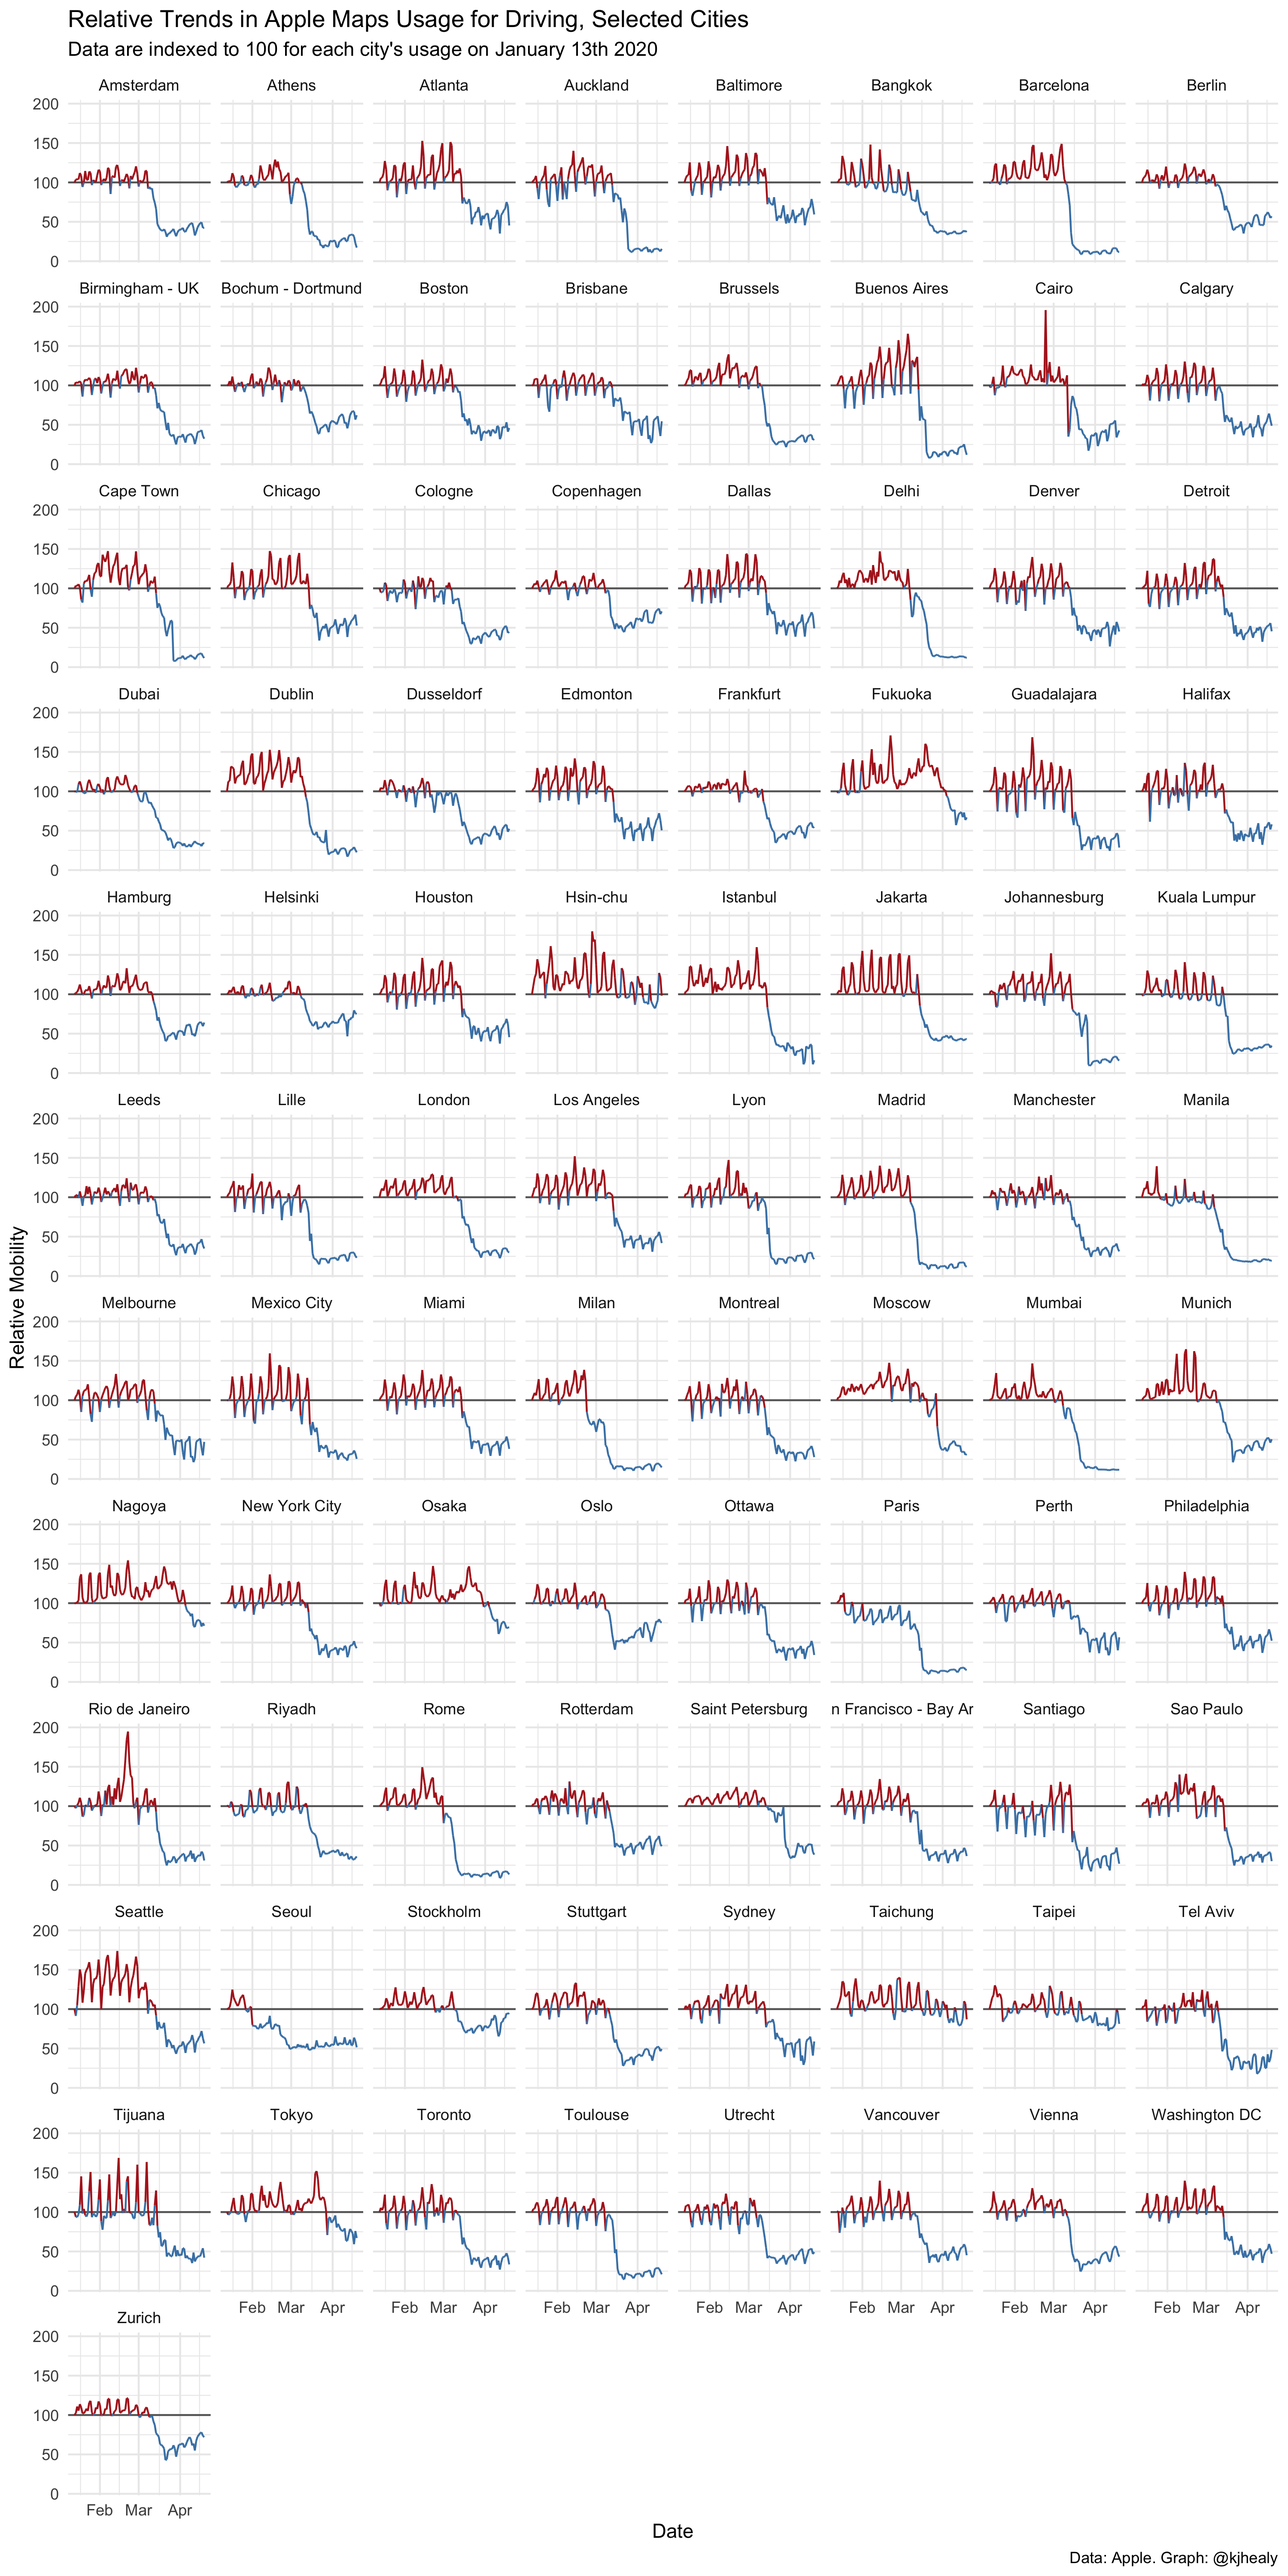
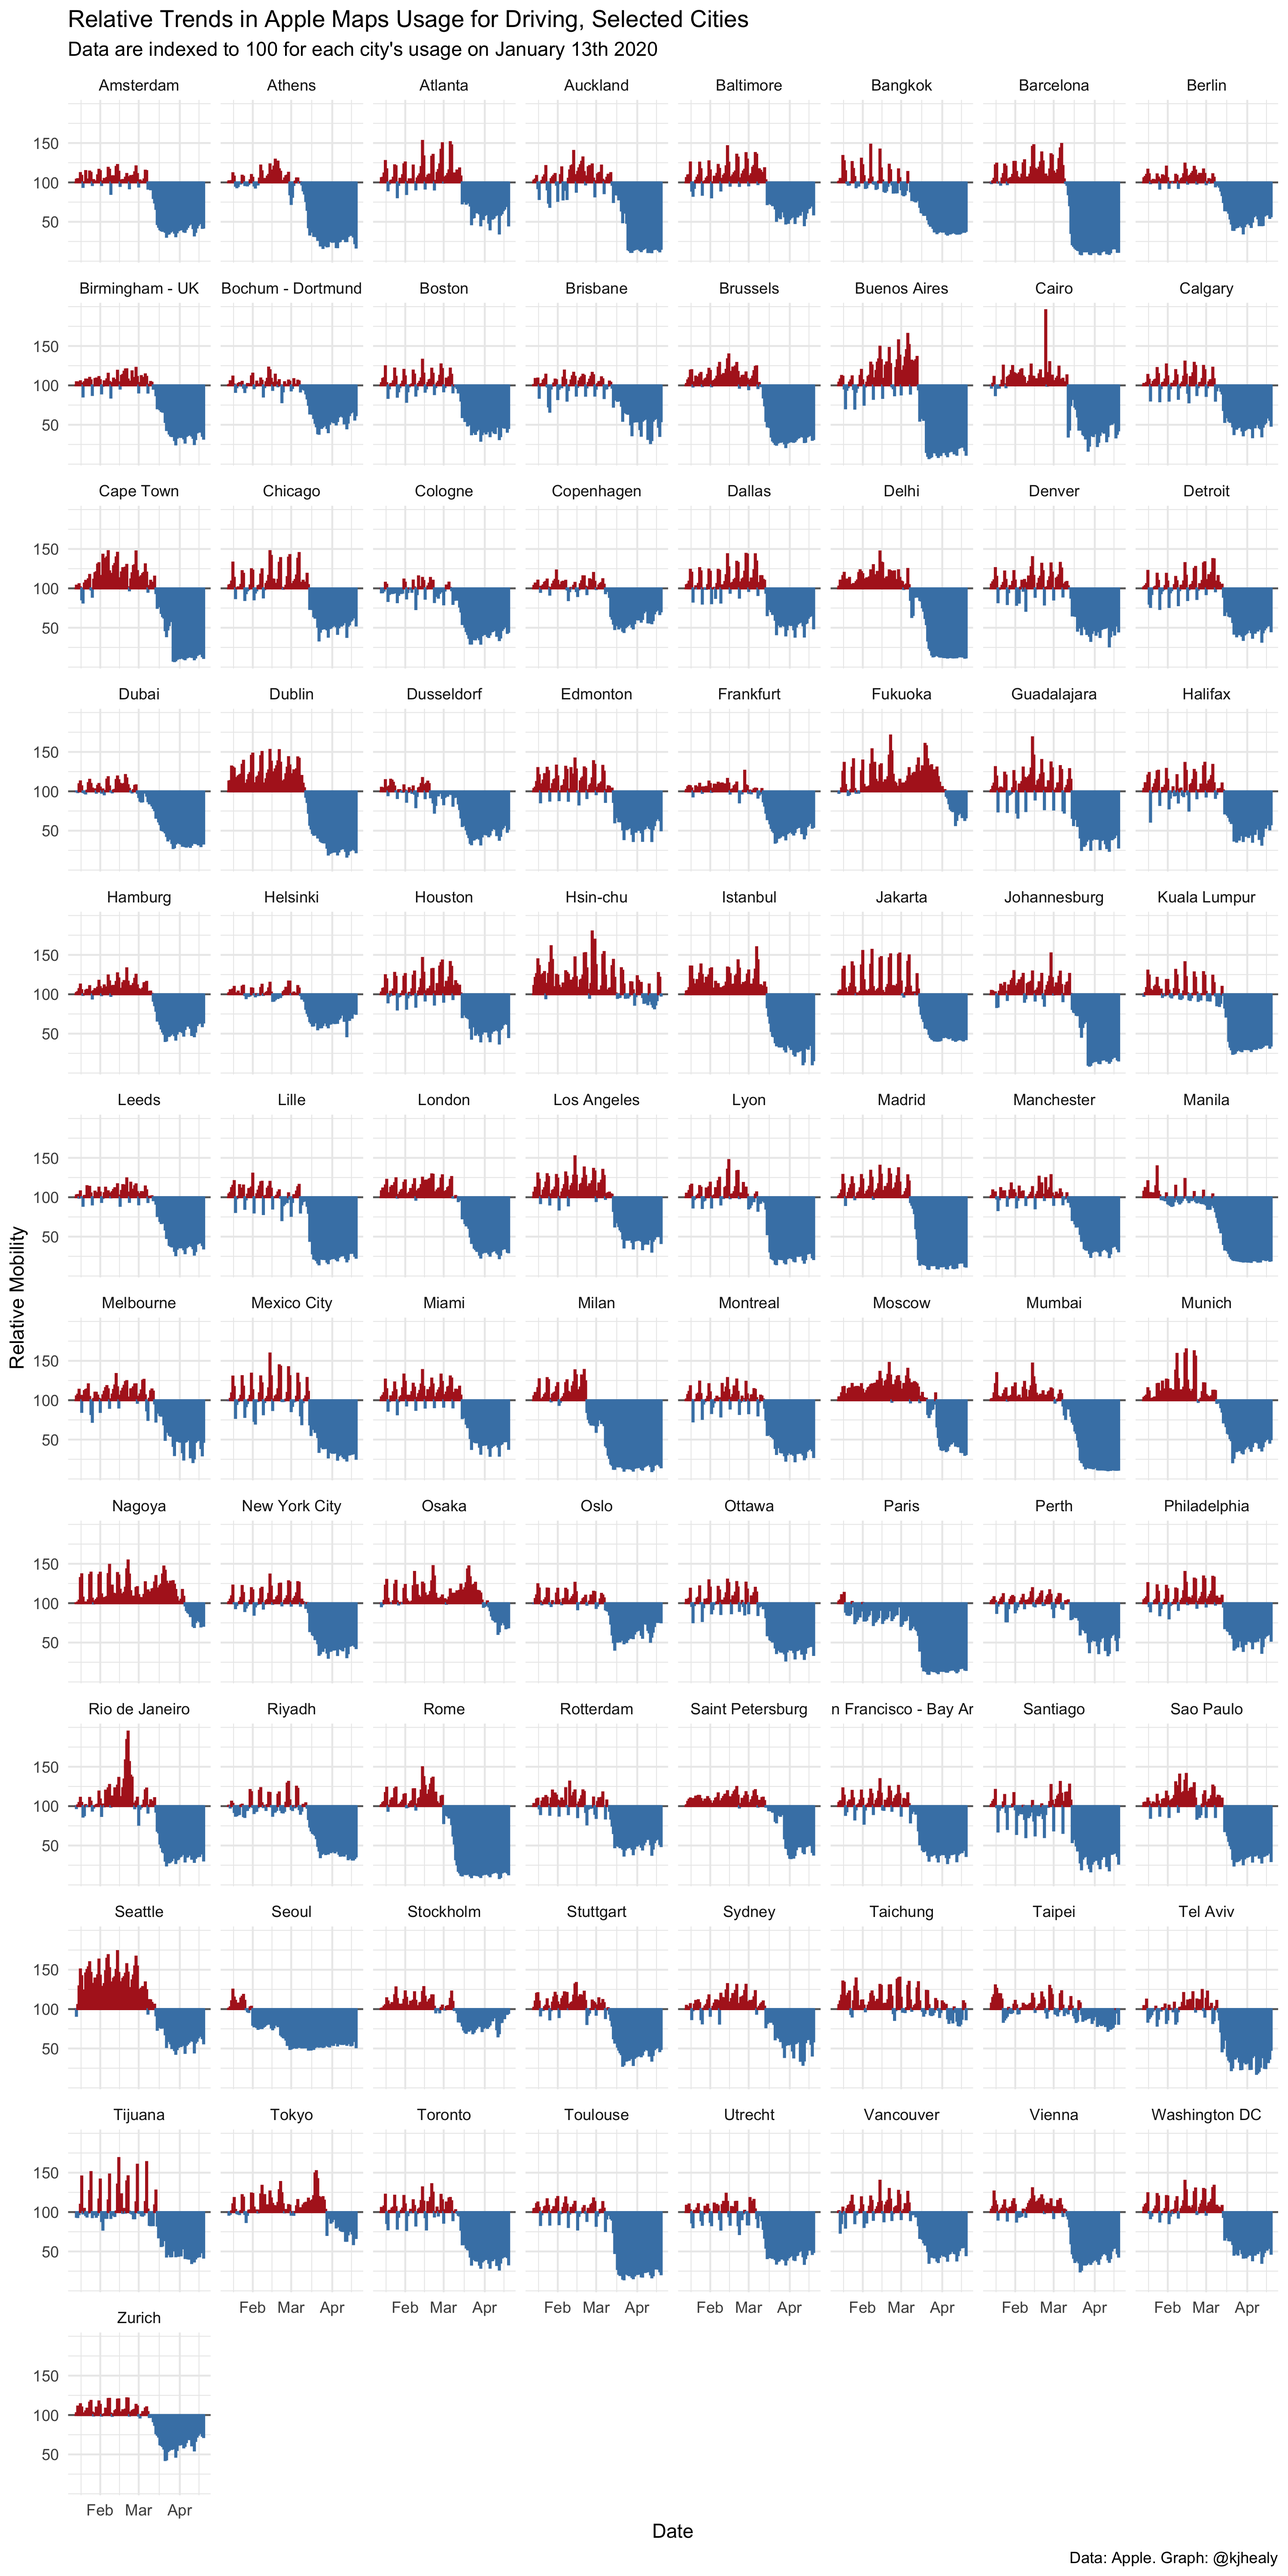
Docs error; change Apple plot

diff --git a/README.md b/README.md
@@ -1,3 +1,7 @@
+---
+output: github_document
+---
+
 <!-- README.md is generated from README.Rmd. Please edit that file -->
 
 
@@ -420,14 +424,19 @@ Apple has made aggregated data available on relative trends in use of its Maps d
 
 
 ```r
+vec_brks <- c(-50, 0, 50)
+vec_labs <- vec_brks + 100
+
 apple_mobility %>% 
   filter(geo_type == "city", transportation_type == "driving") %>%
-  mutate(over_under = index < 100) %>%
+  mutate(over_under = index < 100, 
+         index = index - 100) %>%
   ggplot(mapping = aes(x = date, y = index, 
                        group = region, color = over_under)) + 
-  geom_hline(yintercept = 100, color = "gray40") + 
-  geom_line(size = 0.5) + 
-  scale_color_manual(values = c("firebrick", "steelblue")) + 
+  geom_hline(yintercept = 0, color = "gray40") + 
+  geom_col() + 
+  scale_y_continuous(breaks = vec_brks, labels = vec_labs) + 
+  scale_color_manual(values = c("firebrick", "steelblue")) +
   facet_wrap(~ region, ncol = 8) + 
   guides(color = FALSE) + 
   labs(x = "Date", y = "Relative Mobility", title = "Relative Trends in Apple Maps Usage for Driving, Selected Cities", 
